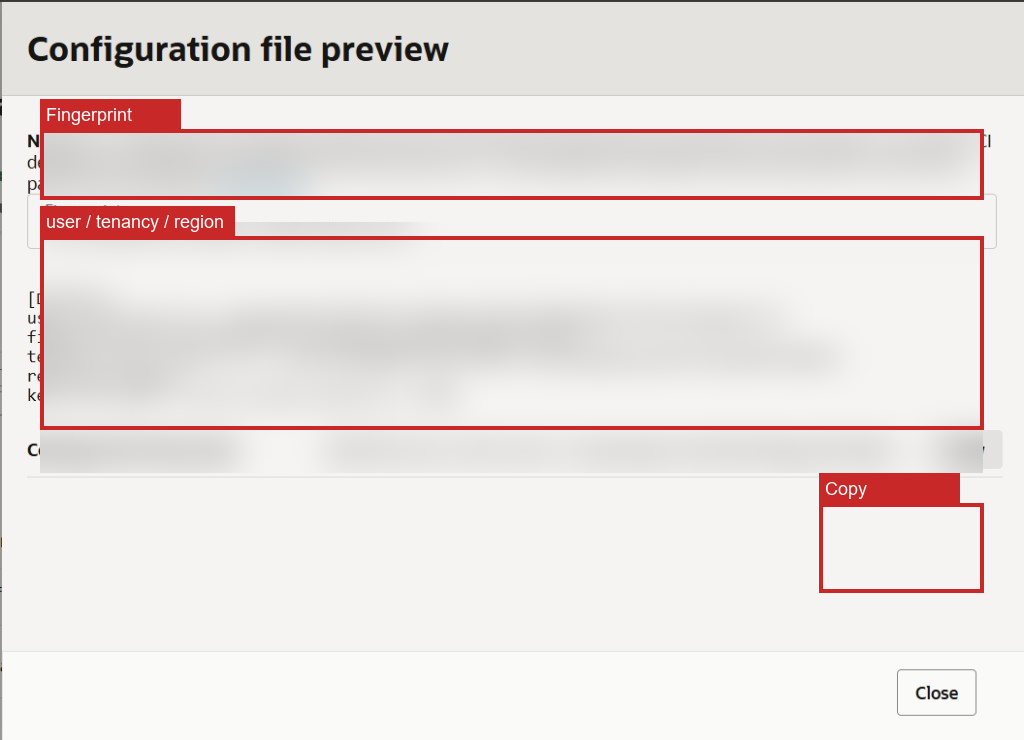
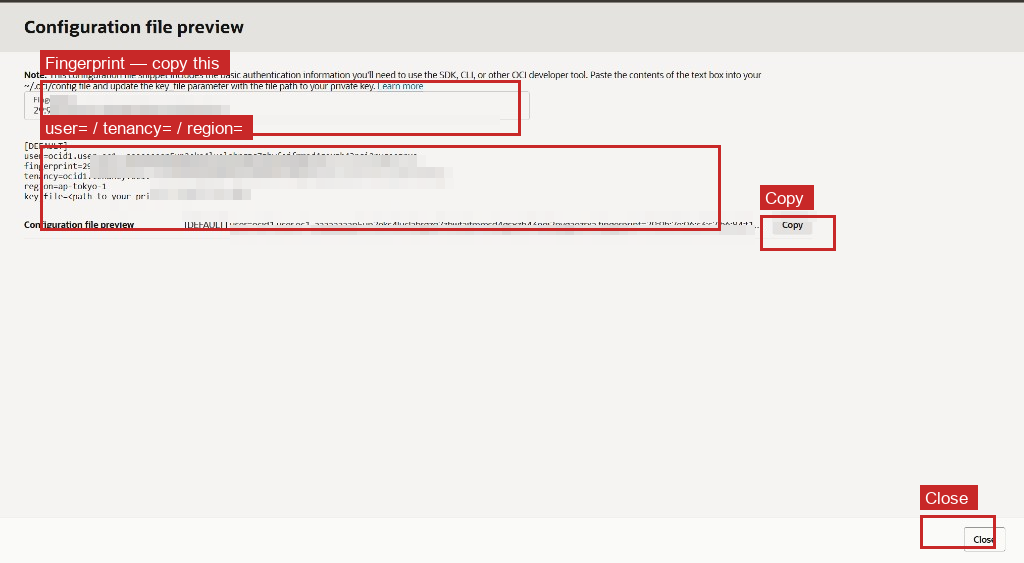
Fix API key guide screenshots: blur name, realign buttons, keep Copy visible.
Redraw annotations from measured coordinates and mosaic only secret values so Copy/Close and Add stay readable.

Changed region(s): [[0.0, 0.0, 1.0, 0.8153], [0.875, 0.8455, 1.0, 0.9964]]

diff --git a/scripts/blur_api_guide.py b/scripts/blur_api_guide.py
@@ -1,0 +1,105 @@
+"""Regenerate API key guide screenshots with accurate blur + annotations."""
+from PIL import Image, ImageDraw, ImageFont
+import os
+
+ASSETS = r"C:\Users\Johji\.cursor\projects\d-dancefloor-MinorWire\assets"
+OUT = r"D:\dancefloor\jittee\public\minorwire\guide"
+
+
+def asset(suffix: str) -> str:
+    for name in os.listdir(ASSETS):
+        if name.endswith(suffix):
+            return os.path.join(ASSETS, name)
+    raise FileNotFoundError(suffix)
+
+
+def mosaic(im: Image.Image, box, block: int = 10) -> None:
+    x0, y0, x1, y1 = [int(v) for v in box]
+    x0, y0 = max(0, x0), max(0, y0)
+    x1, y1 = min(im.width, x1), min(im.height, y1)
+    if x1 <= x0 or y1 <= y0:
+        return
+    crop = im.crop((x0, y0, x1, y1))
+    small = crop.resize(
+        (max(1, (x1 - x0) // block), max(1, (y1 - y0) // block)),
+        Image.Resampling.BILINEAR,
+    )
+    im.paste(small.resize((x1 - x0, y1 - y0), Image.Resampling.NEAREST), (x0, y0))
+
+
+def solid(im: Image.Image, box, color=(210, 210, 210)) -> None:
+    ImageDraw.Draw(im).rectangle(box, fill=color)
+
+
+def callout(im: Image.Image, box, text: str, tag_above: bool = True) -> None:
+    """Outline a UI control; put the text label outside so the button stays readable."""
+    d = ImageDraw.Draw(im)
+    d.rectangle(box, outline=(200, 40, 40), width=3)
+    try:
+        font = ImageFont.truetype("arial.ttf", 17)
+    except Exception:
+        font = ImageFont.load_default()
+    tw = int(font.getlength(text)) + 14
+    th = 24
+    if tag_above:
+        ly0 = max(0, box[1] - th - 6)
+    else:
+        ly0 = min(im.height - th, box[3] + 6)
+    lx0 = max(0, min(box[0], im.width - tw))
+    d.rectangle((lx0, ly0, lx0 + tw, ly0 + th), fill=(200, 40, 40))
+    d.text((lx0 + 5, ly0 + 3), text, fill=(255, 255, 255), font=font)
+
+
+# --- 1) Tokens and keys ---
+im = Image.open(asset("image-a09ba6bb-f861-4a3d-9512-5cae7cb43b57.png")).convert("RGB")
+# Fully obscure display name
+solid(im, (150, 45, 420, 95), (200, 200, 200))
+mosaic(im, (150, 45, 420, 95), block=6)
+# Tokens and keys tab (active underline)
+callout(im, (375, 103, 505, 133), "Tokens and keys")
+# Add API key only (not Delete)
+callout(im, (155, 188, 265, 218), "1. Add API key")
+im.save(os.path.join(OUT, "api-01-tokens-and-keys.png"), optimize=True)
+print("api-01")
+
+# --- 2) Add API key dialog ---
+im = Image.open(asset("image-45f39f63-d1a8-464e-b87c-9c971d9c05ac.png")).convert("RGB")
+callout(im, (32, 208, 275, 238), "2. Generate API key pair")
+# Left download tile — keep title readable
+callout(im, (38, 370, 505, 560), "3. Download private key (click this card)")
+# Outline Add; put the caption to the LEFT so the disabled Add label stays readable
+d = ImageDraw.Draw(im)
+add_box = (908, 704, 985, 732)
+d.rectangle(add_box, outline=(200, 40, 40), width=3)
+try:
+    font = ImageFont.truetype("arial.ttf", 16)
+except Exception:
+    font = ImageFont.load_default()
+cap = "4. Add (after .pem download)"
+tw = int(font.getlength(cap)) + 12
+lx0 = max(40, 900 - tw)
+d.rectangle((lx0, 704, lx0 + tw, 726), fill=(200, 40, 40))
+d.text((lx0 + 4, 706), cap, fill=(255, 255, 255), font=font)
+im.save(os.path.join(OUT, "api-02-add-api-key.png"), optimize=True)
+print("api-02")
+
+# --- 3) Configuration file preview (source with visible Copy) ---
+im = Image.open(asset("image-fb5fd5ae-2986-4111-acfd-c9e80fb50c45.png")).convert("RGB")
+# Blur secrets only; keep UI chrome / Copy / Close / region readable
+# Coords from grid overlay on this 1024x563 asset
+mosaic(im, (50, 95, 500, 125), block=9)  # fingerprint hex
+mosaic(im, (90, 155, 980, 178), block=9)  # user=
+mosaic(im, (150, 178, 500, 200), block=9)  # fingerprint=
+mosaic(im, (110, 200, 980, 222), block=9)  # tenancy=
+mosaic(im, (230, 225, 755, 255), block=9)  # single-line preview secrets
+callout(im, (40, 80, 520, 135), "Fingerprint — copy this")
+callout(im, (40, 145, 720, 230), "user= / tenancy= / region=")
+callout(im, (760, 215, 835, 250), "Copy")
+callout(im, (920, 515, 995, 548), "Close")
+im.save(os.path.join(OUT, "api-03-config-preview.png"), optimize=True)
+print("api-03")
+
+for name in os.listdir(OUT):
+    if name.startswith("_"):
+        os.remove(os.path.join(OUT, name))
+print("done")
